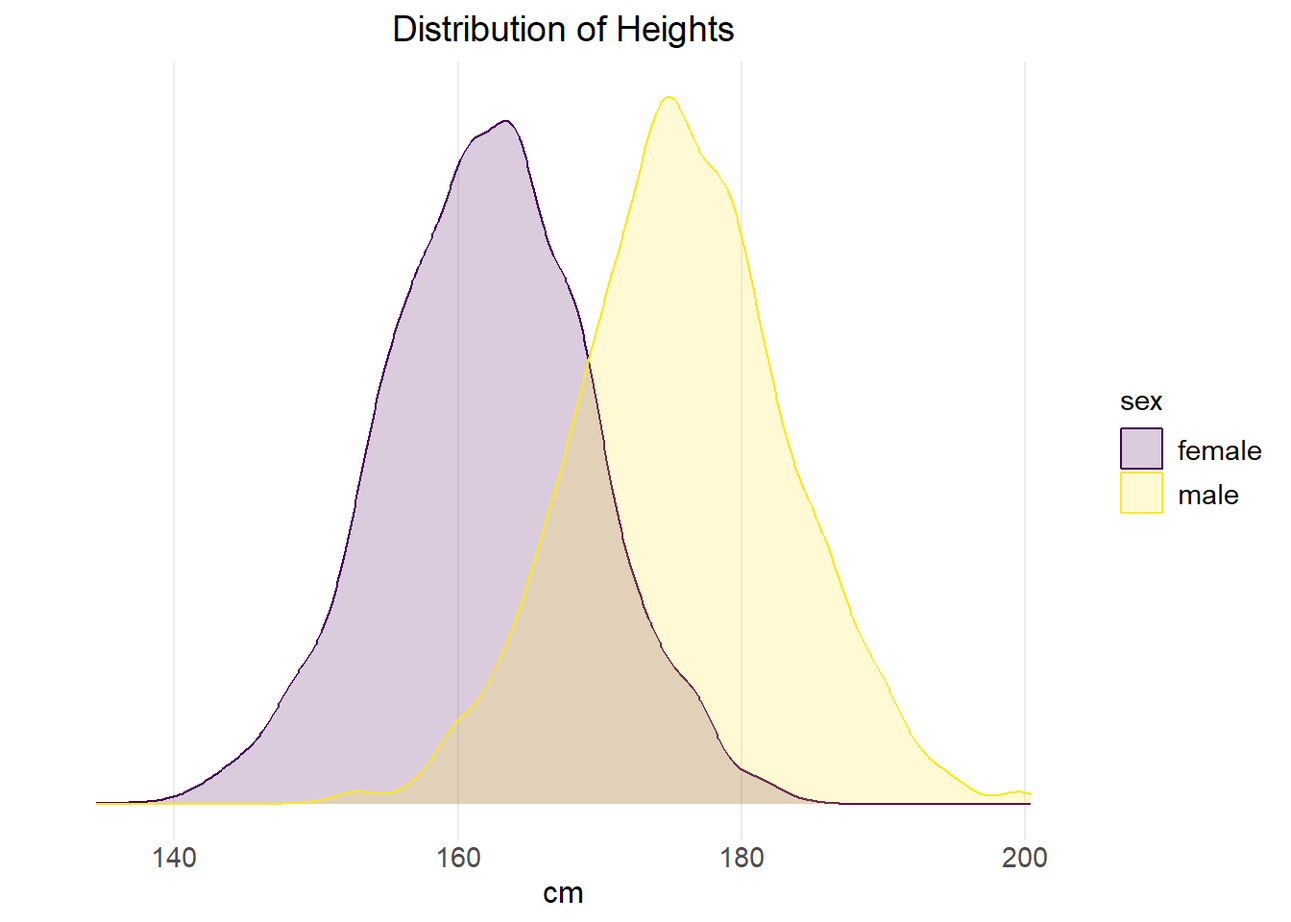
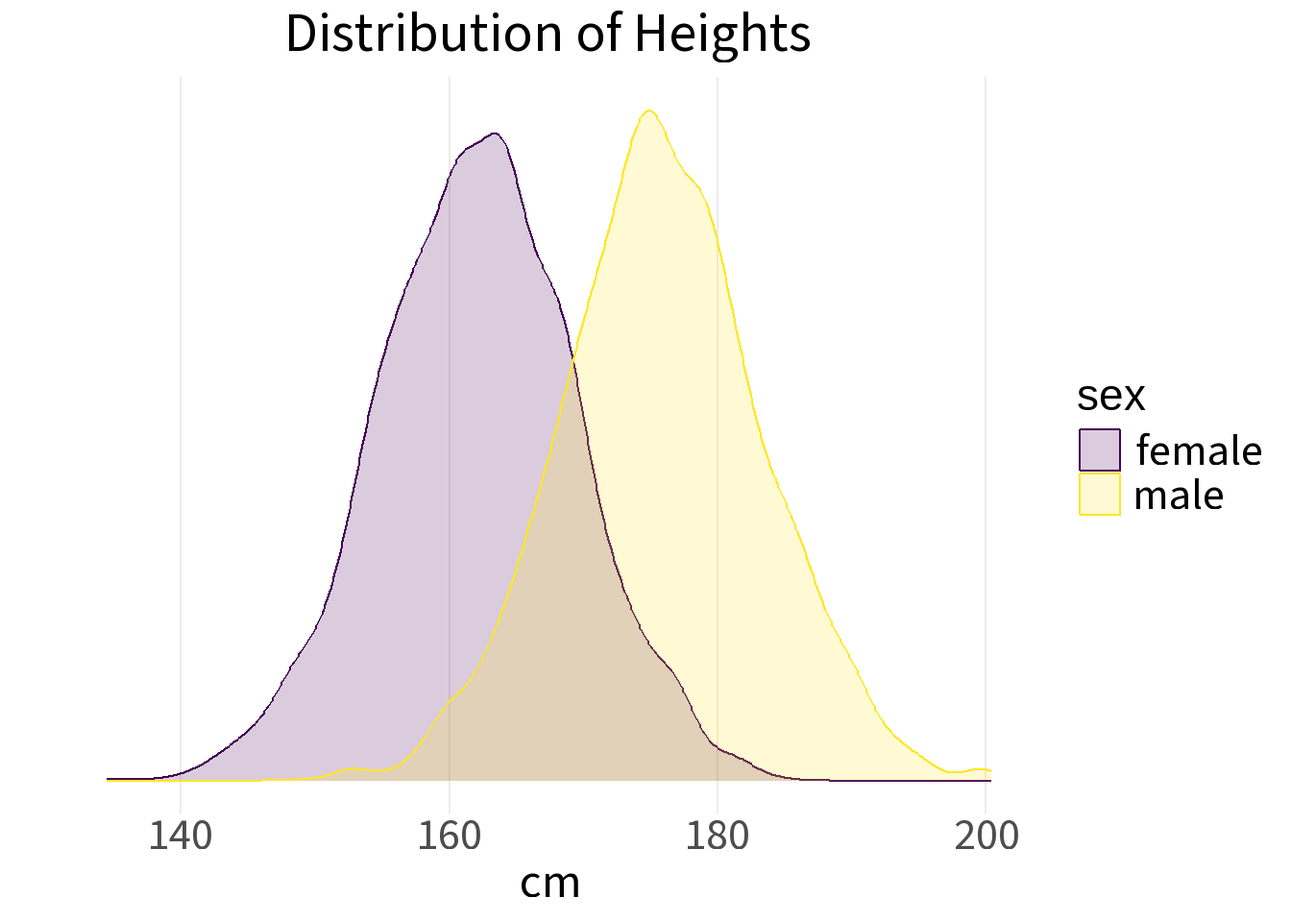
djk

diff --git a/separating_gaussians.html b/separating_gaussians.html
@@ -7,7 +7,7 @@
 <meta name="viewport" content="width=device-width, initial-scale=1.0, user-scalable=yes">
 
 <meta name="author" content="Dan Killian">
-<meta name="dcterms.date" content="2026-04-18">
+<meta name="dcterms.date" content="2026-04-22">
 
 <title>Separating Gaussians</title>
 <style>
@@ -122,6 +122,7 @@ window.Quarto = {
   <li><a href="#the-problem" id="toc-the-problem" class="nav-link active" data-scroll-target="#the-problem">The Problem</a>
   <ul class="collapse">
   <li><a href="#the-data" id="toc-the-data" class="nav-link" data-scroll-target="#the-data">The data</a></li>
+  <li><a href="#posterior-probability" id="toc-posterior-probability" class="nav-link" data-scroll-target="#posterior-probability">Posterior probability</a></li>
   <li><a href="#mixture-weights" id="toc-mixture-weights" class="nav-link" data-scroll-target="#mixture-weights">Mixture weights</a></li>
   </ul></li>
   <li><a href="#the-geometry" id="toc-the-geometry" class="nav-link" data-scroll-target="#the-geometry">The Geometry</a></li>
@@ -152,7 +153,7 @@ window.Quarto = {
     <div>
     <div class="quarto-title-meta-heading">Published</div>
     <div class="quarto-title-meta-contents">
-      <p class="date">April 18, 2026</p>
+      <p class="date">April 22, 2026</p>
     </div>
   </div>
   
@@ -198,26 +199,141 @@ window.Quarto = {
 <span id="cb2-6"><a href="#cb2-6" aria-hidden="true" tabindex="-1"></a>    <span class="at">n       =</span> <span class="fu">n</span>(),</span>
 <span id="cb2-7"><a href="#cb2-7" aria-hidden="true" tabindex="-1"></a>    <span class="at">mean_cm =</span> <span class="fu">mean</span>(cm, <span class="at">na.rm =</span> <span class="cn">TRUE</span>),</span>
 <span id="cb2-8"><a href="#cb2-8" aria-hidden="true" tabindex="-1"></a>    <span class="at">sd_cm   =</span> <span class="fu">sd</span>(cm,   <span class="at">na.rm =</span> <span class="cn">TRUE</span>)</span>
-<span id="cb2-9"><a href="#cb2-9" aria-hidden="true" tabindex="-1"></a>  ) <span class="sc">|&gt;</span></span>
-<span id="cb2-10"><a href="#cb2-10" aria-hidden="true" tabindex="-1"></a>  <span class="fu">mutate</span>(<span class="at">weight =</span> n <span class="sc">/</span> <span class="fu">sum</span>(n))</span>
-<span id="cb2-11"><a href="#cb2-11" aria-hidden="true" tabindex="-1"></a></span>
-<span id="cb2-12"><a href="#cb2-12" aria-hidden="true" tabindex="-1"></a>parms <span class="sc">|&gt;</span></span>
-<span id="cb2-13"><a href="#cb2-13" aria-hidden="true" tabindex="-1"></a>  <span class="fu">select</span>(sex, n, weight, mean_cm, sd_cm) <span class="sc">|&gt;</span></span>
-<span id="cb2-14"><a href="#cb2-14" aria-hidden="true" tabindex="-1"></a>  <span class="fu">flextable</span>() <span class="sc">|&gt;</span></span>
-<span id="cb2-15"><a href="#cb2-15" aria-hidden="true" tabindex="-1"></a>  <span class="fu">colformat_double</span>(<span class="at">j =</span> <span class="st">"weight"</span>, <span class="at">digits =</span> <span class="dv">3</span>) <span class="sc">|&gt;</span></span>
-<span id="cb2-16"><a href="#cb2-16" aria-hidden="true" tabindex="-1"></a>  <span class="fu">colformat_double</span>(<span class="at">j =</span> <span class="fu">c</span>(<span class="st">"mean_cm"</span>, <span class="st">"sd_cm"</span>), <span class="at">digits =</span> <span class="dv">1</span>)</span></code></pre></div><button title="Copy to Clipboard" class="code-copy-button"><i class="bi"></i></button></div>
+<span id="cb2-9"><a href="#cb2-9" aria-hidden="true" tabindex="-1"></a>  ) </span>
+<span id="cb2-10"><a href="#cb2-10" aria-hidden="true" tabindex="-1"></a></span>
+<span id="cb2-11"><a href="#cb2-11" aria-hidden="true" tabindex="-1"></a>prior_f <span class="ot">&lt;-</span> parms<span class="sc">$</span>n[<span class="dv">1</span>] <span class="sc">/</span> <span class="fu">sum</span>(parms<span class="sc">$</span>n)</span>
+<span id="cb2-12"><a href="#cb2-12" aria-hidden="true" tabindex="-1"></a>prior_m <span class="ot">&lt;-</span> parms<span class="sc">$</span>n[<span class="dv">2</span>] <span class="sc">/</span> <span class="fu">sum</span>(parms<span class="sc">$</span>n)</span>
+<span id="cb2-13"><a href="#cb2-13" aria-hidden="true" tabindex="-1"></a></span>
+<span id="cb2-14"><a href="#cb2-14" aria-hidden="true" tabindex="-1"></a>parms_flx <span class="ot">&lt;-</span> parms <span class="sc">|&gt;</span></span>
+<span id="cb2-15"><a href="#cb2-15" aria-hidden="true" tabindex="-1"></a>    <span class="fu">mutate</span>(<span class="at">weight =</span> n <span class="sc">/</span> <span class="fu">sum</span>(n)) <span class="sc">|&gt;</span></span>
+<span id="cb2-16"><a href="#cb2-16" aria-hidden="true" tabindex="-1"></a>    <span class="fu">select</span>(sex, n, weight, mean_cm, sd_cm) <span class="sc">|&gt;</span></span>
+<span id="cb2-17"><a href="#cb2-17" aria-hidden="true" tabindex="-1"></a>    <span class="fu">flextable</span>() <span class="sc">|&gt;</span></span>
+<span id="cb2-18"><a href="#cb2-18" aria-hidden="true" tabindex="-1"></a>    <span class="fu">colformat_double</span>(<span class="at">j =</span> <span class="st">"weight"</span>, <span class="at">digits =</span> <span class="dv">3</span>) <span class="sc">|&gt;</span></span>
+<span id="cb2-19"><a href="#cb2-19" aria-hidden="true" tabindex="-1"></a>    <span class="fu">colformat_double</span>(<span class="at">j =</span> <span class="fu">c</span>(<span class="st">"mean_cm"</span>, <span class="st">"sd_cm"</span>), <span class="at">digits =</span> <span class="dv">1</span>)</span>
+<span id="cb2-20"><a href="#cb2-20" aria-hidden="true" tabindex="-1"></a></span>
+<span id="cb2-21"><a href="#cb2-21" aria-hidden="true" tabindex="-1"></a>parms_flx</span></code></pre></div><button title="Copy to Clipboard" class="code-copy-button"><i class="bi"></i></button></div>
 </details>
 <div class="cell-output-display">
-<div class="tabwid"><style>.cl-58883d8e{table-layout:auto;}.cl-587f20dc{font-family:'Gill Sans MT';font-size:10pt;font-weight:normal;font-style:normal;text-decoration:none;color:rgba(0, 0, 0, 1.00);background-color:transparent;}.cl-5882dff6{margin:0;text-align:left;border-bottom: 0 solid rgba(0, 0, 0, 1.00);border-top: 0 solid rgba(0, 0, 0, 1.00);border-left: 0 solid rgba(0, 0, 0, 1.00);border-right: 0 solid rgba(0, 0, 0, 1.00);padding-bottom:5pt;padding-top:5pt;padding-left:5pt;padding-right:5pt;line-height: 1;background-color:transparent;}.cl-5882e000{margin:0;text-align:right;border-bottom: 0 solid rgba(0, 0, 0, 1.00);border-top: 0 solid rgba(0, 0, 0, 1.00);border-left: 0 solid rgba(0, 0, 0, 1.00);border-right: 0 solid rgba(0, 0, 0, 1.00);padding-bottom:5pt;padding-top:5pt;padding-left:5pt;padding-right:5pt;line-height: 1;background-color:transparent;}.cl-588313ae{background-color:transparent;vertical-align: middle;border-bottom: 1.5pt solid rgba(102, 102, 102, 1.00);border-top: 1.5pt solid rgba(102, 102, 102, 1.00);border-left: 0 solid rgba(0, 0, 0, 1.00);border-right: 0 solid rgba(0, 0, 0, 1.00);margin-bottom:0;margin-top:0;margin-left:0;margin-right:0;}.cl-588313af{background-color:transparent;vertical-align: middle;border-bottom: 1.5pt solid rgba(102, 102, 102, 1.00);border-top: 1.5pt solid rgba(102, 102, 102, 1.00);border-left: 0 solid rgba(0, 0, 0, 1.00);border-right: 0 solid rgba(0, 0, 0, 1.00);margin-bottom:0;margin-top:0;margin-left:0;margin-right:0;}.cl-588313b8{background-color:transparent;vertical-align: middle;border-bottom: 0 solid rgba(0, 0, 0, 1.00);border-top: 0 solid rgba(0, 0, 0, 1.00);border-left: 0 solid rgba(0, 0, 0, 1.00);border-right: 0 solid rgba(0, 0, 0, 1.00);margin-bottom:0;margin-top:0;margin-left:0;margin-right:0;}.cl-588313c2{background-color:transparent;vertical-align: middle;border-bottom: 0 solid rgba(0, 0, 0, 1.00);border-top: 0 solid rgba(0, 0, 0, 1.00);border-left: 0 solid rgba(0, 0, 0, 1.00);border-right: 0 solid rgba(0, 0, 0, 1.00);margin-bottom:0;margin-top:0;margin-left:0;margin-right:0;}.cl-588313c3{background-color:transparent;vertical-align: middle;border-bottom: 1.5pt solid rgba(102, 102, 102, 1.00);border-top: 0 solid rgba(0, 0, 0, 1.00);border-left: 0 solid rgba(0, 0, 0, 1.00);border-right: 0 solid rgba(0, 0, 0, 1.00);margin-bottom:0;margin-top:0;margin-left:0;margin-right:0;}.cl-588313cc{background-color:transparent;vertical-align: middle;border-bottom: 1.5pt solid rgba(102, 102, 102, 1.00);border-top: 0 solid rgba(0, 0, 0, 1.00);border-left: 0 solid rgba(0, 0, 0, 1.00);border-right: 0 solid rgba(0, 0, 0, 1.00);margin-bottom:0;margin-top:0;margin-left:0;margin-right:0;}</style><table data-quarto-disable-processing="true" class="cl-58883d8e"><thead><tr style="overflow-wrap:break-word;"><th class="cl-588313ae"><p class="cl-5882dff6"><span class="cl-587f20dc">sex</span></p></th><th class="cl-588313af"><p class="cl-5882e000"><span class="cl-587f20dc">n</span></p></th><th class="cl-588313af"><p class="cl-5882e000"><span class="cl-587f20dc">weight</span></p></th><th class="cl-588313af"><p class="cl-5882e000"><span class="cl-587f20dc">mean_cm</span></p></th><th class="cl-588313af"><p class="cl-5882e000"><span class="cl-587f20dc">sd_cm</span></p></th></tr></thead><tbody><tr style="overflow-wrap:break-word;"><td class="cl-588313b8"><p class="cl-5882dff6"><span class="cl-587f20dc">female</span></p></td><td class="cl-588313c2"><p class="cl-5882e000"><span class="cl-587f20dc">3,658</span></p></td><td class="cl-588313c2"><p class="cl-5882e000"><span class="cl-587f20dc">0.509</span></p></td><td class="cl-588313c2"><p class="cl-5882e000"><span class="cl-587f20dc">162.0</span></p></td><td class="cl-588313c2"><p class="cl-5882e000"><span class="cl-587f20dc">7.3</span></p></td></tr><tr style="overflow-wrap:break-word;"><td class="cl-588313c3"><p class="cl-5882dff6"><span class="cl-587f20dc">male</span></p></td><td class="cl-588313cc"><p class="cl-5882e000"><span class="cl-587f20dc">3,524</span></p></td><td class="cl-588313cc"><p class="cl-5882e000"><span class="cl-587f20dc">0.491</span></p></td><td class="cl-588313cc"><p class="cl-5882e000"><span class="cl-587f20dc">175.8</span></p></td><td class="cl-588313cc"><p class="cl-5882e000"><span class="cl-587f20dc">7.5</span></p></td></tr></tbody></table></div>
+<div class="tabwid"><style>.cl-e841711c{table-layout:auto;}.cl-e8365a52{font-family:'Gill Sans MT';font-size:10pt;font-weight:normal;font-style:normal;text-decoration:none;color:rgba(0, 0, 0, 1.00);background-color:transparent;}.cl-e83b9eae{margin:0;text-align:left;border-bottom: 0 solid rgba(0, 0, 0, 1.00);border-top: 0 solid rgba(0, 0, 0, 1.00);border-left: 0 solid rgba(0, 0, 0, 1.00);border-right: 0 solid rgba(0, 0, 0, 1.00);padding-bottom:5pt;padding-top:5pt;padding-left:5pt;padding-right:5pt;line-height: 1;background-color:transparent;}.cl-e83b9eb8{margin:0;text-align:right;border-bottom: 0 solid rgba(0, 0, 0, 1.00);border-top: 0 solid rgba(0, 0, 0, 1.00);border-left: 0 solid rgba(0, 0, 0, 1.00);border-right: 0 solid rgba(0, 0, 0, 1.00);padding-bottom:5pt;padding-top:5pt;padding-left:5pt;padding-right:5pt;line-height: 1;background-color:transparent;}.cl-e83bdf72{background-color:transparent;vertical-align: middle;border-bottom: 1.5pt solid rgba(102, 102, 102, 1.00);border-top: 1.5pt solid rgba(102, 102, 102, 1.00);border-left: 0 solid rgba(0, 0, 0, 1.00);border-right: 0 solid rgba(0, 0, 0, 1.00);margin-bottom:0;margin-top:0;margin-left:0;margin-right:0;}.cl-e83bdf7c{background-color:transparent;vertical-align: middle;border-bottom: 1.5pt solid rgba(102, 102, 102, 1.00);border-top: 1.5pt solid rgba(102, 102, 102, 1.00);border-left: 0 solid rgba(0, 0, 0, 1.00);border-right: 0 solid rgba(0, 0, 0, 1.00);margin-bottom:0;margin-top:0;margin-left:0;margin-right:0;}.cl-e83bdf7d{background-color:transparent;vertical-align: middle;border-bottom: 0 solid rgba(0, 0, 0, 1.00);border-top: 0 solid rgba(0, 0, 0, 1.00);border-left: 0 solid rgba(0, 0, 0, 1.00);border-right: 0 solid rgba(0, 0, 0, 1.00);margin-bottom:0;margin-top:0;margin-left:0;margin-right:0;}.cl-e83bdf86{background-color:transparent;vertical-align: middle;border-bottom: 0 solid rgba(0, 0, 0, 1.00);border-top: 0 solid rgba(0, 0, 0, 1.00);border-left: 0 solid rgba(0, 0, 0, 1.00);border-right: 0 solid rgba(0, 0, 0, 1.00);margin-bottom:0;margin-top:0;margin-left:0;margin-right:0;}.cl-e83bdf87{background-color:transparent;vertical-align: middle;border-bottom: 1.5pt solid rgba(102, 102, 102, 1.00);border-top: 0 solid rgba(0, 0, 0, 1.00);border-left: 0 solid rgba(0, 0, 0, 1.00);border-right: 0 solid rgba(0, 0, 0, 1.00);margin-bottom:0;margin-top:0;margin-left:0;margin-right:0;}.cl-e83bdf90{background-color:transparent;vertical-align: middle;border-bottom: 1.5pt solid rgba(102, 102, 102, 1.00);border-top: 0 solid rgba(0, 0, 0, 1.00);border-left: 0 solid rgba(0, 0, 0, 1.00);border-right: 0 solid rgba(0, 0, 0, 1.00);margin-bottom:0;margin-top:0;margin-left:0;margin-right:0;}</style><table data-quarto-disable-processing="true" class="cl-e841711c"><thead><tr style="overflow-wrap:break-word;"><th class="cl-e83bdf72"><p class="cl-e83b9eae"><span class="cl-e8365a52">sex</span></p></th><th class="cl-e83bdf7c"><p class="cl-e83b9eb8"><span class="cl-e8365a52">n</span></p></th><th class="cl-e83bdf7c"><p class="cl-e83b9eb8"><span class="cl-e8365a52">weight</span></p></th><th class="cl-e83bdf7c"><p class="cl-e83b9eb8"><span class="cl-e8365a52">mean_cm</span></p></th><th class="cl-e83bdf7c"><p class="cl-e83b9eb8"><span class="cl-e8365a52">sd_cm</span></p></th></tr></thead><tbody><tr style="overflow-wrap:break-word;"><td class="cl-e83bdf7d"><p class="cl-e83b9eae"><span class="cl-e8365a52">female</span></p></td><td class="cl-e83bdf86"><p class="cl-e83b9eb8"><span class="cl-e8365a52">3,658</span></p></td><td class="cl-e83bdf86"><p class="cl-e83b9eb8"><span class="cl-e8365a52">0.509</span></p></td><td class="cl-e83bdf86"><p class="cl-e83b9eb8"><span class="cl-e8365a52">162.0</span></p></td><td class="cl-e83bdf86"><p class="cl-e83b9eb8"><span class="cl-e8365a52">7.3</span></p></td></tr><tr style="overflow-wrap:break-word;"><td class="cl-e83bdf87"><p class="cl-e83b9eae"><span class="cl-e8365a52">male</span></p></td><td class="cl-e83bdf90"><p class="cl-e83b9eb8"><span class="cl-e8365a52">3,524</span></p></td><td class="cl-e83bdf90"><p class="cl-e83b9eb8"><span class="cl-e8365a52">0.491</span></p></td><td class="cl-e83bdf90"><p class="cl-e83b9eb8"><span class="cl-e8365a52">175.8</span></p></td><td class="cl-e83bdf90"><p class="cl-e83b9eb8"><span class="cl-e8365a52">7.5</span></p></td></tr></tbody></table></div>
 </div>
 </div>
+<div class="cell">
+<details class="code-fold">
+<summary>Code</summary>
+<div class="code-copy-outer-scaffold"><div class="sourceCode cell-code" id="cb3"><pre class="sourceCode r code-with-copy"><code class="sourceCode r"><span id="cb3-1"><a href="#cb3-1" aria-hidden="true" tabindex="-1"></a><span class="fu">ggplot</span>(heights, <span class="fu">aes</span>(<span class="at">x=</span>cm, <span class="at">color=</span>sex, <span class="at">fill=</span>sex)) <span class="sc">+</span></span>
+<span id="cb3-2"><a href="#cb3-2" aria-hidden="true" tabindex="-1"></a>    <span class="fu">geom_density</span>(<span class="at">alpha=</span>.<span class="dv">2</span>) <span class="sc">+</span></span>
+<span id="cb3-3"><a href="#cb3-3" aria-hidden="true" tabindex="-1"></a>    <span class="fu">scale_fill_viridis_d</span>() <span class="sc">+</span></span>
+<span id="cb3-4"><a href="#cb3-4" aria-hidden="true" tabindex="-1"></a>    <span class="fu">scale_color_viridis_d</span>() <span class="sc">+</span></span>
+<span id="cb3-5"><a href="#cb3-5" aria-hidden="true" tabindex="-1"></a>    <span class="fu">scale_y_continuous</span>(<span class="at">breaks=</span><span class="cn">NULL</span>) <span class="sc">+</span></span>
+<span id="cb3-6"><a href="#cb3-6" aria-hidden="true" tabindex="-1"></a>    <span class="fu">labs</span>(<span class="at">y=</span><span class="st">""</span>,</span>
+<span id="cb3-7"><a href="#cb3-7" aria-hidden="true" tabindex="-1"></a>         <span class="at">title=</span><span class="st">"Distribution of Heights"</span>)</span></code></pre></div><button title="Copy to Clipboard" class="code-copy-button"><i class="bi"></i></button></div>
+</details>
+<div class="cell-output-display">
+<div>
+<figure class="figure">
+<p><img src="separating_gaussians_files/figure-html/unnamed-chunk-3-1.png" class="img-fluid figure-img" width="672"></p>
+</figure>
+</div>
+</div>
+</div>
+<p>It is clear that there is lots of overlap in the heights of men and women. Short men and tall women cannot be distinguished.</p>
+<p>Given the overlap, no height provides certainty — but we can do better than a coin flip. If we model each group’s heights as Gaussian and use each group’s share of the sample as a prior, Bayes’ theorem gives us a posterior probability for any observed height.</p>
+</section>
+<section id="posterior-probability" class="level3">
+<h3 class="anchored" data-anchor-id="posterior-probability">Posterior probability</h3>
+<p>We want <span class="math inline">\(P(\text{female} \mid h)\)</span> — the probability that a person of height <span class="math inline">\(h\)</span> is female. By Bayes’ theorem:</p>
+<p><span class="math display">\[P(\text{female} \mid h) = \frac{P(h \mid \text{female}) \cdot \pi_f}{P(h \mid \text{female}) \cdot \pi_f \;+\; P(h \mid \text{male}) \cdot \pi_m}\]</span></p>
+<p>Each term has a clear role:</p>
+<ul>
+<li><span class="math inline">\(P(h \mid \text{female}) = \phi(h;\, \mu_f, \sigma_f)\)</span> is the <strong>likelihood</strong> — how probable is this height under the female Gaussian?</li>
+<li><span class="math inline">\(\pi_f\)</span> is the <strong>prior</strong> — what fraction of the population is female, before observing height?</li>
+<li>The denominator is the total probability of observing height <span class="math inline">\(h\)</span> across both groups, ensuring the posteriors sum to 1.</li>
+</ul>
+<p>Crucially, <span class="math inline">\(P(\text{male} \mid h) = 1 - P(\text{female} \mid h)\)</span>, so only one calculation is needed.</p>
 </section>
 <section id="mixture-weights" class="level3">
 <h3 class="anchored" data-anchor-id="mixture-weights">Mixture weights</h3>
 <p>The mixture weight <span class="math inline">\(\pi_k\)</span> is the share of the total sample belonging to group <span class="math inline">\(k\)</span>:</p>
-<p><span class="math display">\[\pi_k = \frac{n_k}{N}, \qquad N = \sum_k n_k\]</span></p>
-<p>For this dataset, <span class="math inline">\(\pi_f =\)</span> 0.509 and <span class="math inline">\(\pi_m =\)</span> 0.491. These reflect the sample composition and serve as <strong>prior probabilities</strong> before observing any height.</p>
+<p><span class="math display">\[\pi_k = \frac{n_k}{N}, \qquad N = \sum_k n_k\]</span> For this dataset, <span class="math inline">\(\pi_f =\)</span> 0.509 and <span class="math inline">\(\pi_m =\)</span> 0.491. These reflect the sample composition and serve as <strong>prior probabilities</strong> before observing any height.</p>
 <p>Without mixture weights, we would implicitly treat each group as equally probable — equivalent to setting <span class="math inline">\(\pi_f = \pi_m = 0.5\)</span>. When the groups differ in size, this introduces a systematic bias in classification.</p>
+<div class="cell">
+<details class="code-fold">
+<summary>Code</summary>
+<div class="code-copy-outer-scaffold"><div class="sourceCode cell-code" id="cb4"><pre class="sourceCode r code-with-copy"><code class="sourceCode r"><span id="cb4-1"><a href="#cb4-1" aria-hidden="true" tabindex="-1"></a>heights <span class="ot">&lt;-</span> heights <span class="sc">|&gt;</span></span>
+<span id="cb4-2"><a href="#cb4-2" aria-hidden="true" tabindex="-1"></a>    <span class="fu">mutate</span>(<span class="at">lik_female =</span> <span class="fu">dnorm</span>(cm,</span>
+<span id="cb4-3"><a href="#cb4-3" aria-hidden="true" tabindex="-1"></a>                            <span class="at">mean=</span>parms<span class="sc">$</span>mean_cm[<span class="dv">1</span>],</span>
+<span id="cb4-4"><a href="#cb4-4" aria-hidden="true" tabindex="-1"></a>                            <span class="at">sd=</span>parms<span class="sc">$</span>sd_cm[<span class="dv">1</span>]),</span>
+<span id="cb4-5"><a href="#cb4-5" aria-hidden="true" tabindex="-1"></a>           <span class="at">lik_male =</span> <span class="fu">dnorm</span>(cm,</span>
+<span id="cb4-6"><a href="#cb4-6" aria-hidden="true" tabindex="-1"></a>                            <span class="at">mean =</span> parms<span class="sc">$</span>mean_cm[<span class="dv">2</span>],</span>
+<span id="cb4-7"><a href="#cb4-7" aria-hidden="true" tabindex="-1"></a>                            <span class="at">sd =</span> parms<span class="sc">$</span>sd_cm[<span class="dv">2</span>]),</span>
+<span id="cb4-8"><a href="#cb4-8" aria-hidden="true" tabindex="-1"></a>           <span class="at">p_female   =</span> (lik_female <span class="sc">*</span> prior_f) <span class="sc">/</span> </span>
+<span id="cb4-9"><a href="#cb4-9" aria-hidden="true" tabindex="-1"></a>               (lik_female <span class="sc">*</span> prior_f <span class="sc">+</span> lik_male <span class="sc">*</span> prior_m),</span>
+<span id="cb4-10"><a href="#cb4-10" aria-hidden="true" tabindex="-1"></a>           <span class="at">p_male =</span> ( lik_male <span class="sc">*</span> prior_m ) <span class="sc">/</span> </span>
+<span id="cb4-11"><a href="#cb4-11" aria-hidden="true" tabindex="-1"></a>               ( (lik_male <span class="sc">*</span> prior_m) <span class="sc">+</span> (lik_female <span class="sc">*</span> prior_f) )</span>
+<span id="cb4-12"><a href="#cb4-12" aria-hidden="true" tabindex="-1"></a>    )</span>
+<span id="cb4-13"><a href="#cb4-13" aria-hidden="true" tabindex="-1"></a></span>
+<span id="cb4-14"><a href="#cb4-14" aria-hidden="true" tabindex="-1"></a>heights <span class="ot">&lt;-</span> heights <span class="sc">%&gt;%</span></span>
+<span id="cb4-15"><a href="#cb4-15" aria-hidden="true" tabindex="-1"></a>    <span class="fu">group_by</span>(sex) <span class="sc">%&gt;%</span></span>
+<span id="cb4-16"><a href="#cb4-16" aria-hidden="true" tabindex="-1"></a>    <span class="fu">mutate</span>(<span class="at">percentile=</span><span class="fu">cume_dist</span>(cm))</span></code></pre></div><button title="Copy to Clipboard" class="code-copy-button"><i class="bi"></i></button></div>
+</details>
+</div>
+<div class="cell">
+<details class="code-fold">
+<summary>Code</summary>
+<div class="code-copy-outer-scaffold"><div class="sourceCode cell-code" id="cb5"><pre class="sourceCode r code-with-copy"><code class="sourceCode r"><span id="cb5-1"><a href="#cb5-1" aria-hidden="true" tabindex="-1"></a><span class="fu">library</span>(ggridges)</span>
+<span id="cb5-2"><a href="#cb5-2" aria-hidden="true" tabindex="-1"></a></span>
+<span id="cb5-3"><a href="#cb5-3" aria-hidden="true" tabindex="-1"></a><span class="fu">ggplot</span>(heights, <span class="fu">aes</span>(<span class="at">x =</span> cm, <span class="at">y =</span> sex)) <span class="sc">+</span></span>
+<span id="cb5-4"><a href="#cb5-4" aria-hidden="true" tabindex="-1"></a>  <span class="fu">geom_density_ridges</span>()</span></code></pre></div><button title="Copy to Clipboard" class="code-copy-button"><i class="bi"></i></button></div>
+</details>
+<div class="cell-output cell-output-stderr">
+<pre><code>Picking joint bandwidth of 1.27</code></pre>
+</div>
+<div class="cell-output-display">
+<div>
+<figure class="figure">
+<p><img src="separating_gaussians_files/figure-html/unnamed-chunk-5-1.png" class="img-fluid figure-img" width="672"></p>
+</figure>
+</div>
+</div>
+</div>
+<div class="cell">
+<details class="code-fold">
+<summary>Code</summary>
+<div class="code-copy-outer-scaffold"><div class="sourceCode cell-code" id="cb7"><pre class="sourceCode r code-with-copy"><code class="sourceCode r"><span id="cb7-1"><a href="#cb7-1" aria-hidden="true" tabindex="-1"></a><span class="fu">ggplot</span>(heights, <span class="fu">aes</span>(<span class="at">x =</span> cm, <span class="at">fill =</span> sex)) <span class="sc">+</span></span>
+<span id="cb7-2"><a href="#cb7-2" aria-hidden="true" tabindex="-1"></a>  <span class="fu">geom_dotplot</span>(<span class="at">binwidth =</span> <span class="dv">2</span>, <span class="at">dotsize=</span>.<span class="dv">4</span>) <span class="sc">+</span></span>
+<span id="cb7-3"><a href="#cb7-3" aria-hidden="true" tabindex="-1"></a>    <span class="fu">scale_x_continuous</span>(<span class="at">breaks=</span><span class="fu">seq</span>(<span class="dv">100</span>, <span class="dv">220</span>, <span class="dv">20</span>)) <span class="sc">+</span></span>
+<span id="cb7-4"><a href="#cb7-4" aria-hidden="true" tabindex="-1"></a>  <span class="fu">facet_wrap</span>(<span class="sc">~</span> sex, <span class="at">ncol =</span> <span class="dv">1</span>) <span class="sc">+</span> </span>
+<span id="cb7-5"><a href="#cb7-5" aria-hidden="true" tabindex="-1"></a>    faceted</span></code></pre></div><button title="Copy to Clipboard" class="code-copy-button"><i class="bi"></i></button></div>
+</details>
+<div class="cell-output-display">
+<div>
+<figure class="figure">
+<p><img src="separating_gaussians_files/figure-html/unnamed-chunk-6-1.png" class="img-fluid figure-img" width="672"></p>
+</figure>
+</div>
+</div>
+</div>
+<div class="cell">
+<details class="code-fold">
+<summary>Code</summary>
+<div class="code-copy-outer-scaffold"><div class="sourceCode cell-code" id="cb8"><pre class="sourceCode r code-with-copy"><code class="sourceCode r"><span id="cb8-1"><a href="#cb8-1" aria-hidden="true" tabindex="-1"></a><span class="fu">ggplot</span>(heights, <span class="fu">aes</span>(cm)) <span class="sc">+</span></span>
+<span id="cb8-2"><a href="#cb8-2" aria-hidden="true" tabindex="-1"></a>    <span class="fu">geom_point</span>(<span class="fu">aes</span>(<span class="at">y=</span>p_male),</span>
+<span id="cb8-3"><a href="#cb8-3" aria-hidden="true" tabindex="-1"></a>               <span class="at">size=</span>.<span class="dv">5</span>,</span>
+<span id="cb8-4"><a href="#cb8-4" aria-hidden="true" tabindex="-1"></a>               <span class="at">color=</span><span class="st">"dodgerblue2"</span>) <span class="sc">+</span></span>
+<span id="cb8-5"><a href="#cb8-5" aria-hidden="true" tabindex="-1"></a>    <span class="fu">geom_point</span>(<span class="fu">aes</span>(<span class="at">y=</span>p_female),</span>
+<span id="cb8-6"><a href="#cb8-6" aria-hidden="true" tabindex="-1"></a>               <span class="at">size=</span>.<span class="dv">5</span>,</span>
+<span id="cb8-7"><a href="#cb8-7" aria-hidden="true" tabindex="-1"></a>               <span class="at">color=</span><span class="st">"indianred"</span>) <span class="sc">+</span></span>
+<span id="cb8-8"><a href="#cb8-8" aria-hidden="true" tabindex="-1"></a>    <span class="fu">scale_x_continuous</span>(<span class="at">limits=</span><span class="fu">c</span>(<span class="dv">135</span>,<span class="dv">205</span>),</span>
+<span id="cb8-9"><a href="#cb8-9" aria-hidden="true" tabindex="-1"></a>                       <span class="at">breaks=</span><span class="fu">seq</span>(<span class="dv">140</span>,<span class="dv">200</span>,<span class="dv">10</span>))</span></code></pre></div><button title="Copy to Clipboard" class="code-copy-button"><i class="bi"></i></button></div>
+</details>
+<div class="cell-output-display">
+<div>
+<figure class="figure">
+<p><img src="separating_gaussians_files/figure-html/unnamed-chunk-7-1.png" class="img-fluid figure-img" width="672"></p>
+</figure>
+</div>
+</div>
+</div>
 </section>
 </section>
 <section id="the-geometry" class="level2">

diff --git a/separating_gaussians.html.md b/separating_gaussians.html.md
@@ -61,24 +61,69 @@ parms <- heights |>
     n       = n(),
     mean_cm = mean(cm, na.rm = TRUE),
     sd_cm   = sd(cm,   na.rm = TRUE)
-  ) |>
-  mutate(weight = n / sum(n))
+  ) 
 
-parms |>
-  select(sex, n, weight, mean_cm, sd_cm) |>
-  flextable() |>
-  colformat_double(j = "weight", digits = 3) |>
-  colformat_double(j = c("mean_cm", "sd_cm"), digits = 1)
+prior_f <- parms$n[1] / sum(parms$n)
+prior_m <- parms$n[2] / sum(parms$n)
+
+parms_flx <- parms |>
+    mutate(weight = n / sum(n)) |>
+    select(sex, n, weight, mean_cm, sd_cm) |>
+    flextable() |>
+    colformat_double(j = "weight", digits = 3) |>
+    colformat_double(j = c("mean_cm", "sd_cm"), digits = 1)
+
+parms_flx
 ```
 
 ::: {.cell-output-display}
 
 ```{=html}
-<div class="tabwid"><style>.cl-58883d8e{table-layout:auto;}.cl-587f20dc{font-family:'Gill Sans MT';font-size:10pt;font-weight:normal;font-style:normal;text-decoration:none;color:rgba(0, 0, 0, 1.00);background-color:transparent;}.cl-5882dff6{margin:0;text-align:left;border-bottom: 0 solid rgba(0, 0, 0, 1.00);border-top: 0 solid rgba(0, 0, 0, 1.00);border-left: 0 solid rgba(0, 0, 0, 1.00);border-right: 0 solid rgba(0, 0, 0, 1.00);padding-bottom:5pt;padding-top:5pt;padding-left:5pt;padding-right:5pt;line-height: 1;background-color:transparent;}.cl-5882e000{margin:0;text-align:right;border-bottom: 0 solid rgba(0, 0, 0, 1.00);border-top: 0 solid rgba(0, 0, 0, 1.00);border-left: 0 solid rgba(0, 0, 0, 1.00);border-right: 0 solid rgba(0, 0, 0, 1.00);padding-bottom:5pt;padding-top:5pt;padding-left:5pt;padding-right:5pt;line-height: 1;background-color:transparent;}.cl-588313ae{background-color:transparent;vertical-align: middle;border-bottom: 1.5pt solid rgba(102, 102, 102, 1.00);border-top: 1.5pt solid rgba(102, 102, 102, 1.00);border-left: 0 solid rgba(0, 0, 0, 1.00);border-right: 0 solid rgba(0, 0, 0, 1.00);margin-bottom:0;margin-top:0;margin-left:0;margin-right:0;}.cl-588313af{background-color:transparent;vertical-align: middle;border-bottom: 1.5pt solid rgba(102, 102, 102, 1.00);border-top: 1.5pt solid rgba(102, 102, 102, 1.00);border-left: 0 solid rgba(0, 0, 0, 1.00);border-right: 0 solid rgba(0, 0, 0, 1.00);margin-bottom:0;margin-top:0;margin-left:0;margin-right:0;}.cl-588313b8{background-color:transparent;vertical-align: middle;border-bottom: 0 solid rgba(0, 0, 0, 1.00);border-top: 0 solid rgba(0, 0, 0, 1.00);border-left: 0 solid rgba(0, 0, 0, 1.00);border-right: 0 solid rgba(0, 0, 0, 1.00);margin-bottom:0;margin-top:0;margin-left:0;margin-right:0;}.cl-588313c2{background-color:transparent;vertical-align: middle;border-bottom: 0 solid rgba(0, 0, 0, 1.00);border-top: 0 solid rgba(0, 0, 0, 1.00);border-left: 0 solid rgba(0, 0, 0, 1.00);border-right: 0 solid rgba(0, 0, 0, 1.00);margin-bottom:0;margin-top:0;margin-left:0;margin-right:0;}.cl-588313c3{background-color:transparent;vertical-align: middle;border-bottom: 1.5pt solid rgba(102, 102, 102, 1.00);border-top: 0 solid rgba(0, 0, 0, 1.00);border-left: 0 solid rgba(0, 0, 0, 1.00);border-right: 0 solid rgba(0, 0, 0, 1.00);margin-bottom:0;margin-top:0;margin-left:0;margin-right:0;}.cl-588313cc{background-color:transparent;vertical-align: middle;border-bottom: 1.5pt solid rgba(102, 102, 102, 1.00);border-top: 0 solid rgba(0, 0, 0, 1.00);border-left: 0 solid rgba(0, 0, 0, 1.00);border-right: 0 solid rgba(0, 0, 0, 1.00);margin-bottom:0;margin-top:0;margin-left:0;margin-right:0;}</style><table data-quarto-disable-processing='true' class='cl-58883d8e'><thead><tr style="overflow-wrap:break-word;"><th class="cl-588313ae"><p class="cl-5882dff6"><span class="cl-587f20dc">sex</span></p></th><th class="cl-588313af"><p class="cl-5882e000"><span class="cl-587f20dc">n</span></p></th><th class="cl-588313af"><p class="cl-5882e000"><span class="cl-587f20dc">weight</span></p></th><th class="cl-588313af"><p class="cl-5882e000"><span class="cl-587f20dc">mean_cm</span></p></th><th class="cl-588313af"><p class="cl-5882e000"><span class="cl-587f20dc">sd_cm</span></p></th></tr></thead><tbody><tr style="overflow-wrap:break-word;"><td class="cl-588313b8"><p class="cl-5882dff6"><span class="cl-587f20dc">female</span></p></td><td class="cl-588313c2"><p class="cl-5882e000"><span class="cl-587f20dc">3,658</span></p></td><td class="cl-588313c2"><p class="cl-5882e000"><span class="cl-587f20dc">0.509</span></p></td><td class="cl-588313c2"><p class="cl-5882e000"><span class="cl-587f20dc">162.0</span></p></td><td class="cl-588313c2"><p class="cl-5882e000"><span class="cl-587f20dc">7.3</span></p></td></tr><tr style="overflow-wrap:break-word;"><td class="cl-588313c3"><p class="cl-5882dff6"><span class="cl-587f20dc">male</span></p></td><td class="cl-588313cc"><p class="cl-5882e000"><span class="cl-587f20dc">3,524</span></p></td><td class="cl-588313cc"><p class="cl-5882e000"><span class="cl-587f20dc">0.491</span></p></td><td class="cl-588313cc"><p class="cl-5882e000"><span class="cl-587f20dc">175.8</span></p></td><td class="cl-588313cc"><p class="cl-5882e000"><span class="cl-587f20dc">7.5</span></p></td></tr></tbody></table></div>
+<div class="tabwid"><style>.cl-e841711c{table-layout:auto;}.cl-e8365a52{font-family:'Gill Sans MT';font-size:10pt;font-weight:normal;font-style:normal;text-decoration:none;color:rgba(0, 0, 0, 1.00);background-color:transparent;}.cl-e83b9eae{margin:0;text-align:left;border-bottom: 0 solid rgba(0, 0, 0, 1.00);border-top: 0 solid rgba(0, 0, 0, 1.00);border-left: 0 solid rgba(0, 0, 0, 1.00);border-right: 0 solid rgba(0, 0, 0, 1.00);padding-bottom:5pt;padding-top:5pt;padding-left:5pt;padding-right:5pt;line-height: 1;background-color:transparent;}.cl-e83b9eb8{margin:0;text-align:right;border-bottom: 0 solid rgba(0, 0, 0, 1.00);border-top: 0 solid rgba(0, 0, 0, 1.00);border-left: 0 solid rgba(0, 0, 0, 1.00);border-right: 0 solid rgba(0, 0, 0, 1.00);padding-bottom:5pt;padding-top:5pt;padding-left:5pt;padding-right:5pt;line-height: 1;background-color:transparent;}.cl-e83bdf72{background-color:transparent;vertical-align: middle;border-bottom: 1.5pt solid rgba(102, 102, 102, 1.00);border-top: 1.5pt solid rgba(102, 102, 102, 1.00);border-left: 0 solid rgba(0, 0, 0, 1.00);border-right: 0 solid rgba(0, 0, 0, 1.00);margin-bottom:0;margin-top:0;margin-left:0;margin-right:0;}.cl-e83bdf7c{background-color:transparent;vertical-align: middle;border-bottom: 1.5pt solid rgba(102, 102, 102, 1.00);border-top: 1.5pt solid rgba(102, 102, 102, 1.00);border-left: 0 solid rgba(0, 0, 0, 1.00);border-right: 0 solid rgba(0, 0, 0, 1.00);margin-bottom:0;margin-top:0;margin-left:0;margin-right:0;}.cl-e83bdf7d{background-color:transparent;vertical-align: middle;border-bottom: 0 solid rgba(0, 0, 0, 1.00);border-top: 0 solid rgba(0, 0, 0, 1.00);border-left: 0 solid rgba(0, 0, 0, 1.00);border-right: 0 solid rgba(0, 0, 0, 1.00);margin-bottom:0;margin-top:0;margin-left:0;margin-right:0;}.cl-e83bdf86{background-color:transparent;vertical-align: middle;border-bottom: 0 solid rgba(0, 0, 0, 1.00);border-top: 0 solid rgba(0, 0, 0, 1.00);border-left: 0 solid rgba(0, 0, 0, 1.00);border-right: 0 solid rgba(0, 0, 0, 1.00);margin-bottom:0;margin-top:0;margin-left:0;margin-right:0;}.cl-e83bdf87{background-color:transparent;vertical-align: middle;border-bottom: 1.5pt solid rgba(102, 102, 102, 1.00);border-top: 0 solid rgba(0, 0, 0, 1.00);border-left: 0 solid rgba(0, 0, 0, 1.00);border-right: 0 solid rgba(0, 0, 0, 1.00);margin-bottom:0;margin-top:0;margin-left:0;margin-right:0;}.cl-e83bdf90{background-color:transparent;vertical-align: middle;border-bottom: 1.5pt solid rgba(102, 102, 102, 1.00);border-top: 0 solid rgba(0, 0, 0, 1.00);border-left: 0 solid rgba(0, 0, 0, 1.00);border-right: 0 solid rgba(0, 0, 0, 1.00);margin-bottom:0;margin-top:0;margin-left:0;margin-right:0;}</style><table data-quarto-disable-processing='true' class='cl-e841711c'><thead><tr style="overflow-wrap:break-word;"><th class="cl-e83bdf72"><p class="cl-e83b9eae"><span class="cl-e8365a52">sex</span></p></th><th class="cl-e83bdf7c"><p class="cl-e83b9eb8"><span class="cl-e8365a52">n</span></p></th><th class="cl-e83bdf7c"><p class="cl-e83b9eb8"><span class="cl-e8365a52">weight</span></p></th><th class="cl-e83bdf7c"><p class="cl-e83b9eb8"><span class="cl-e8365a52">mean_cm</span></p></th><th class="cl-e83bdf7c"><p class="cl-e83b9eb8"><span class="cl-e8365a52">sd_cm</span></p></th></tr></thead><tbody><tr style="overflow-wrap:break-word;"><td class="cl-e83bdf7d"><p class="cl-e83b9eae"><span class="cl-e8365a52">female</span></p></td><td class="cl-e83bdf86"><p class="cl-e83b9eb8"><span class="cl-e8365a52">3,658</span></p></td><td class="cl-e83bdf86"><p class="cl-e83b9eb8"><span class="cl-e8365a52">0.509</span></p></td><td class="cl-e83bdf86"><p class="cl-e83b9eb8"><span class="cl-e8365a52">162.0</span></p></td><td class="cl-e83bdf86"><p class="cl-e83b9eb8"><span class="cl-e8365a52">7.3</span></p></td></tr><tr style="overflow-wrap:break-word;"><td class="cl-e83bdf87"><p class="cl-e83b9eae"><span class="cl-e8365a52">male</span></p></td><td class="cl-e83bdf90"><p class="cl-e83b9eb8"><span class="cl-e8365a52">3,524</span></p></td><td class="cl-e83bdf90"><p class="cl-e83b9eb8"><span class="cl-e8365a52">0.491</span></p></td><td class="cl-e83bdf90"><p class="cl-e83b9eb8"><span class="cl-e8365a52">175.8</span></p></td><td class="cl-e83bdf90"><p class="cl-e83b9eb8"><span class="cl-e8365a52">7.5</span></p></td></tr></tbody></table></div>
 ```
 
 :::
 :::
+
+
+
+::: {.cell}
+
+```{.r .cell-code}
+ggplot(heights, aes(x=cm, color=sex, fill=sex)) +
+    geom_density(alpha=.2) +
+    scale_fill_viridis_d() +
+    scale_color_viridis_d() +
+    scale_y_continuous(breaks=NULL) +
+    labs(y="",
+         title="Distribution of Heights")
+```
+
+::: {.cell-output-display}
+![](separating_gaussians_files/figure-html/unnamed-chunk-3-1.png){width=672}
+:::
+:::
+
+
+It is clear that there is lots of overlap in the heights of men and women. Short men and tall women cannot be distinguished. 
+
+Given the overlap, no height provides certainty — but we can do better than a coin flip. If we model each group's heights as Gaussian and use each group's share of the sample as a prior, Bayes' theorem gives us a posterior probability for any observed height.
+
+### Posterior probability
+
+We want $P(\text{female} \mid h)$ — the probability that a person of height $h$ is female. By Bayes' theorem:
+
+$$P(\text{female} \mid h) = \frac{P(h \mid \text{female}) \cdot \pi_f}{P(h \mid \text{female}) \cdot \pi_f \;+\; P(h \mid \text{male}) \cdot \pi_m}$$
+
+Each term has a clear role:
+
+- $P(h \mid \text{female}) = \phi(h;\, \mu_f, \sigma_f)$ is the **likelihood** — how probable is this height under the female Gaussian?
+- $\pi_f$ is the **prior** — what fraction of the population is female, before observing height?
+- The denominator is the total probability of observing height $h$ across both groups, ensuring the posteriors sum to 1.
+
+Crucially, $P(\text{male} \mid h) = 1 - P(\text{female} \mid h)$, so only one calculation is needed.
+
+
 
 
 ### Mixture weights
@@ -86,10 +131,104 @@ parms |>
 The mixture weight $\pi_k$ is the share of the total sample belonging to group $k$:
 
 $$\pi_k = \frac{n_k}{N}, \qquad N = \sum_k n_k$$
-
 For this dataset, $\pi_f =$ 0.509 and $\pi_m =$ 0.491. These reflect the sample composition and serve as **prior probabilities** before observing any height.
 
 Without mixture weights, we would implicitly treat each group as equally probable — equivalent to setting $\pi_f = \pi_m = 0.5$. When the groups differ in size, this introduces a systematic bias in classification.
+
+
+::: {.cell}
+
+```{.r .cell-code}
+heights <- heights |>
+    mutate(lik_female = dnorm(cm,
+                            mean=parms$mean_cm[1],
+                            sd=parms$sd_cm[1]),
+           lik_male = dnorm(cm,
+                            mean = parms$mean_cm[2],
+                            sd = parms$sd_cm[2]),
+           p_female   = (lik_female * prior_f) / 
+               (lik_female * prior_f + lik_male * prior_m),
+           p_male = ( lik_male * prior_m ) / 
+               ( (lik_male * prior_m) + (lik_female * prior_f) )
+    )
+
+heights <- heights %>%
+    group_by(sex) %>%
+    mutate(percentile=cume_dist(cm))
+```
+:::
+
+
+
+
+::: {.cell}
+
+```{.r .cell-code}
+library(ggridges)
+
+ggplot(heights, aes(x = cm, y = sex)) +
+  geom_density_ridges()
+```
+
+::: {.cell-output .cell-output-stderr}
+
+```
+Picking joint bandwidth of 1.27
+```
+
+
+:::
+
+::: {.cell-output-display}
+![](separating_gaussians_files/figure-html/unnamed-chunk-5-1.png){width=672}
+:::
+:::
+
+
+
+::: {.cell}
+
+```{.r .cell-code}
+ggplot(heights, aes(x = cm, fill = sex)) +
+  geom_dotplot(binwidth = 2, dotsize=.4) +
+    scale_x_continuous(breaks=seq(100, 220, 20)) +
+  facet_wrap(~ sex, ncol = 1) + 
+    faceted
+```
+
+::: {.cell-output-display}
+![](separating_gaussians_files/figure-html/unnamed-chunk-6-1.png){width=672}
+:::
+:::
+
+
+
+::: {.cell}
+
+```{.r .cell-code}
+ggplot(heights, aes(cm)) +
+    geom_point(aes(y=p_male),
+               size=.5,
+               color="dodgerblue2") +
+    geom_point(aes(y=p_female),
+               size=.5,
+               color="indianred") +
+    scale_x_continuous(limits=c(135,205),
+                       breaks=seq(140,200,10))
+```
+
+::: {.cell-output-display}
+![](separating_gaussians_files/figure-html/unnamed-chunk-7-1.png){width=672}
+:::
+:::
+
+
+
+
+
+
+
+
 
 ## The Geometry
 

diff --git a/AGENTS.md b/AGENTS.md
@@ -1,5 +1,9 @@
 # Foundations of Data Science – Project Memory
 
+## Activity Setup
+Follow the Activity Setup Guide at: `C:\Users\dkill\OneDrive\Documents\ActivitySetupGuide.md`
+Read this at the start of each session to initialize or resume any activity within this workspace.
+
 ## Overview
 Course notes for **Foundations of Data Science** by Blum, Hopcroft & Kannan (2020).
 Published at: https://dkillian.github.io/FoundationsDataScience/
